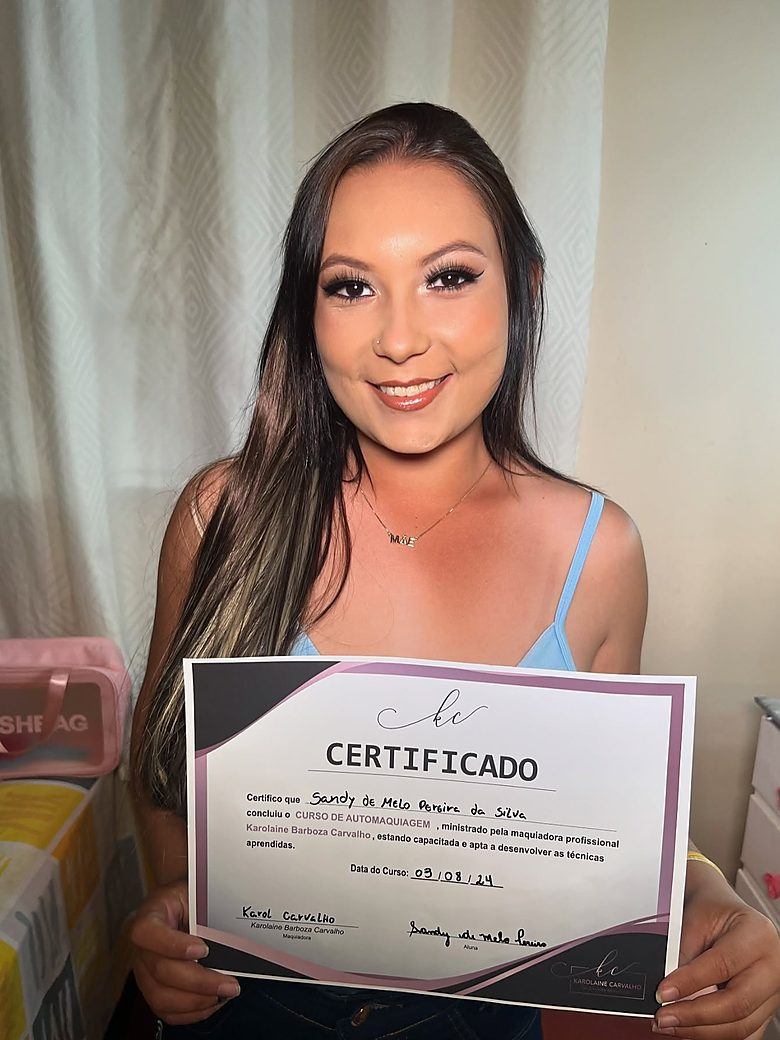
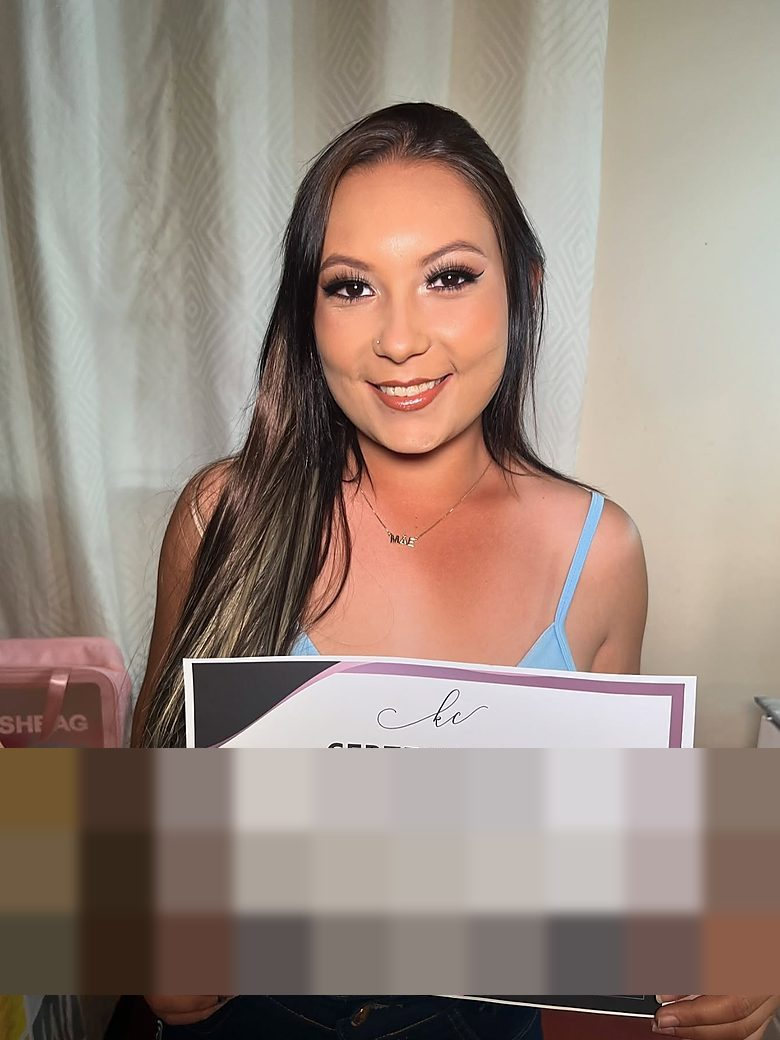
Tira dados pessoais das alunas das fotos e do repositorio
As seis fotos de aluna com certificado traziam o NOME COMPLETO escrito a
mao, a data do curso e a assinatura -- legiveis. Dado pessoal de terceiro,
num site publico e num repositorio publico.

O que mudou:

- ferramentas/anonimizar.py apaga a faixa do certificado abaixo do titulo.
  Pixelizacao destrutiva (reduz a 10 px e reamplia em NEAREST), nao desfoque:
  gaussiano pode ser parcialmente revertido, reduzir joga a informacao fora.
  A regiao e achada pela mancha clara e sem cor da foto, com dois limites
  que evitam grudar no fundo claro ou na roupa branca. Onde a deteccao nao
  tem confianca, o script recusa em vez de chutar -- duas fotos usam medida
  manual. Sobra o monograma e a palavra CERTIFICADO, que e o que da sentido
  a foto.

- ferramentas/originais/ sai do Git. Sao 21 MB de imagem de origem com os
  certificados em alta; nao precisam ser versionados e nao podem ficar
  expostos. Continuam na maquina pra refazer recorte quando precisar.

ATENCAO, duas coisas que codigo nao resolve:

1. O repositorio esta PUBLICO. Enquanto estiver, os originais continuam
   baixaveis pelo historico -- apagar num commit novo nao apaga o passado.
   Deixar privado e a acao que resolve.
2. Se as fotos precisarem sumir do historico de vez, e reescrita de
   historico com force push, que quebra o clone dos outros notebooks.
   Nao fiz sozinho por isso.

Changed region(s): [[0.0, 0.7077, 1.0, 0.9538]]

diff --git a/ferramentas/anonimizar.py b/ferramentas/anonimizar.py
@@ -1,0 +1,174 @@
+"""
+Apaga os dados pessoais dos certificados nas fotos das alunas.
+
+Cada certificado traz o NOME COMPLETO da aluna escrito à mão, a data do curso
+e a assinatura. É dado pessoal de terceiro e o site é público — não pode ir ao
+ar, nem ficar versionado.
+
+Como acha o certificado: ele é a maior mancha CLARA e SEM COR da foto (papel
+branco). O script monta uma máscara de "quase branco", limpa ruído, pega o
+maior componente e usa a caixa dele. Isso é bem mais confiável do que eu chutar
+frações de altura olhando miniatura — foi assim que da primeira vez eu borrei
+o rosto de uma aluna e deixei dois nomes legíveis.
+
+Como apaga: pixelização destrutiva, não desfoque. A faixa é reduzida a poucos
+pixels e reampliada em NEAREST. Desfoque gaussiano pode ser parcialmente
+revertido; reduzir a 10 px de largura joga a informação fora de vez.
+
+O que sobra: a parte de cima do certificado (o monograma e a palavra
+CERTIFICADO), que é o que dá sentido à foto. Some o nome, a data e as
+assinaturas, que ficam sempre na metade de baixo.
+
+Uso:  python ferramentas/anonimizar.py [--conferir]
+"""
+
+import os
+import sys
+from PIL import Image, ImageFilter
+
+PASTA = "public/fotos"
+
+# Medida manual, em fração da altura, pra foto onde a detecção falha.
+# aluna-05 usa uma regata listrada clara que encosta no papel: o componente
+# vira um só e o script (com razão) recusa em vez de chutar.
+MANUAL = {
+    # regata listrada clara encosta no papel: a detecção junta os dois e recusa
+    "aluna-05.jpg": (0.80, 1.00),
+    # a detecção mede o papel curto e sobra a assinatura da aluna embaixo
+    "aluna-02.jpg": (0.62, 1.00),
+}
+
+ALVOS = [
+    "aluna-01.jpg",
+    "aluna-02.jpg",
+    "aluna-03.jpg",
+    "aluna-04.jpg",
+    "aluna-05.jpg",
+    "aluna-06.jpg",
+    "serv-curso.jpg",
+]
+
+# fração da altura do certificado que fica preservada, contada do topo dele.
+# 0.30 mantém o monograma e a palavra CERTIFICADO; o nome vem logo abaixo.
+PRESERVA_TOPO = 0.30
+
+# largura em pixels a que a faixa é reduzida. 10 px não deixa nem a forma
+# das letras.
+GRAO = 10
+
+# margem de segurança em volta da caixa detectada, em fração da altura da foto.
+FOLGA = 0.02
+
+
+def caixa_do_certificado(im: Image.Image):
+    """
+    Bounding box do certificado. None se não achar com confiança.
+
+    Duas restrições evitam o erro que a primeira versão cometeu — grudar no
+    fundo claro (cortina, parede) ou na roupa branca da aluna:
+
+    - só procura abaixo de 28% da altura: o papel está sempre na mão, na
+      frente do tronco, nunca na altura da testa;
+    - descarta componente mais alto que 50% da foto: isso é fundo ou roupa
+      clara colada no papel, não o papel sozinho.
+    """
+    P = 200  # trabalha pequeno: é máscara, não precisa de resolução
+    pequena = im.resize((P, round(im.height * P / im.width)), Image.BILINEAR)
+    px = pequena.load()
+    L, A = pequena.size
+    PISO = int(A * 0.28)
+
+    marcados = [[False] * L for _ in range(A)]
+    for y in range(PISO, A):
+        for x in range(L):
+            r, g, b = px[x, y]
+            claro = (r + g + b) / 3 > 165
+            sem_cor = max(r, g, b) - min(r, g, b) < 42
+            marcados[y][x] = claro and sem_cor
+
+    # maior componente conexo, por varredura em largura
+    visto = [[False] * L for _ in range(A)]
+    melhor, melhor_area = None, 0
+    for y0 in range(A):
+        for x0 in range(L):
+            if not marcados[y0][x0] or visto[y0][x0]:
+                continue
+            fila = [(x0, y0)]
+            visto[y0][x0] = True
+            xmin = xmax = x0
+            ymin = ymax = y0
+            area = 0
+            while fila:
+                x, y = fila.pop()
+                area += 1
+                xmin, xmax = min(xmin, x), max(xmax, x)
+                ymin, ymax = min(ymin, y), max(ymax, y)
+                for dx, dy in ((1, 0), (-1, 0), (0, 1), (0, -1)):
+                    nx, ny = x + dx, y + dy
+                    if 0 <= nx < L and 0 <= ny < A and marcados[ny][nx] and not visto[ny][nx]:
+                        visto[ny][nx] = True
+                        fila.append((nx, ny))
+            alto_demais = (ymax - ymin) > A * 0.50
+            if area > melhor_area and not alto_demais:
+                melhor_area, melhor = area, (xmin, ymin, xmax, ymax)
+
+    # menos de 4% da foto não é um certificado na mão de alguém
+    if melhor is None or melhor_area < L * A * 0.04:
+        return None
+
+    e = im.width / L
+    x0, y0, x1, y1 = melhor
+    return (x0 * e, y0 * e, (x1 + 1) * e, (y1 + 1) * e)
+
+
+def apagar(im: Image.Image, y0: int, y1: int) -> Image.Image:
+    L = im.width
+    y0 = max(0, y0)
+    y1 = min(im.height, y1)
+    if y1 <= y0:
+        return im
+    faixa = im.crop((0, y0, L, y1))
+    altura = max(1, round(faixa.height * GRAO / faixa.width))
+    faixa = faixa.resize((GRAO, altura), Image.BOX).resize(faixa.size, Image.NEAREST)
+    faixa = faixa.filter(ImageFilter.GaussianBlur(radius=6))
+    im.paste(faixa, (0, y0))
+    return im
+
+
+def processar(arquivo: str, conferir: bool) -> None:
+    caminho = os.path.join(PASTA, arquivo)
+    if not os.path.exists(caminho):
+        print(f"{arquivo:18} NAO ENCONTRADO")
+        return
+
+    im = Image.open(caminho).convert("RGB")
+
+    if arquivo in MANUAL:
+        topo, base = MANUAL[arquivo]
+        inicio, fim = int(im.height * topo), int(im.height * base)
+        origem = "manual"
+    else:
+        caixa = caixa_do_certificado(im)
+        if caixa is None:
+            print(f"{arquivo:18} certificado NAO detectado — medir a mao e por em MANUAL")
+            return
+        _, cy0, _, cy1 = caixa
+        inicio = int(cy0 + (cy1 - cy0) * PRESERVA_TOPO)
+        fim = int(cy1 + im.height * FOLGA)
+        origem = "detectado"
+
+    if conferir:
+        pct = lambda v: f"{v / im.height:.0%}"
+        print(f"{arquivo:18} {origem:10} apaga {pct(inicio)}–{pct(min(fim, im.height))}")
+        return
+
+    im = apagar(im, inicio, fim)
+    im.save(caminho, "JPEG", quality=82, optimize=True, progressive=True)
+    print(f"{arquivo:18} apagado de {inicio / im.height:.0%} até {min(fim, im.height) / im.height:.0%}")
+
+
+if __name__ == "__main__":
+    conferir = "--conferir" in sys.argv
+    for arquivo in ALVOS:
+        processar(arquivo, conferir)
+    print("\npronto")
